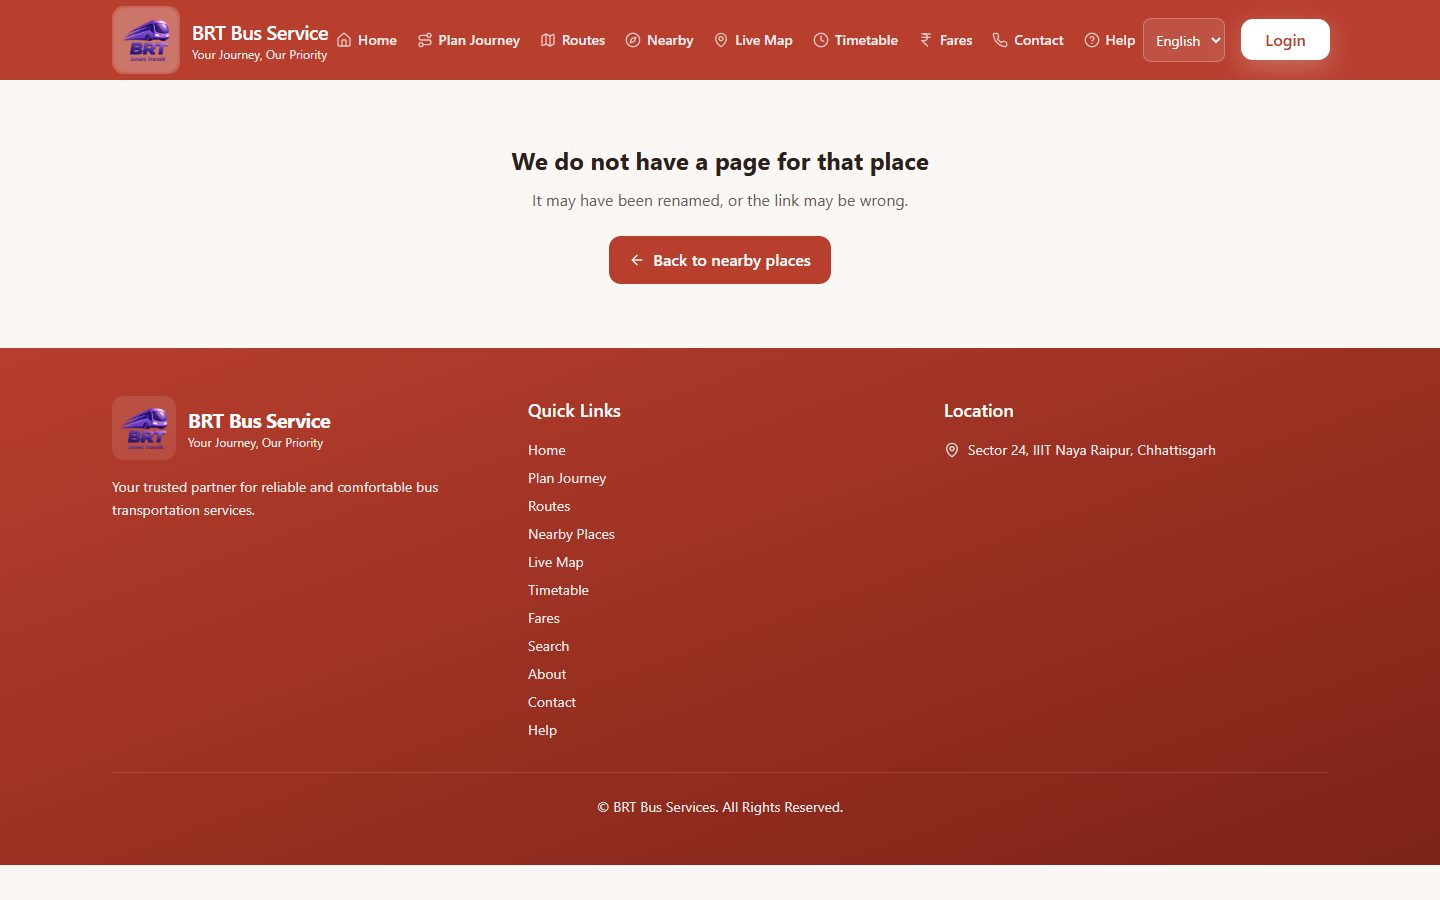
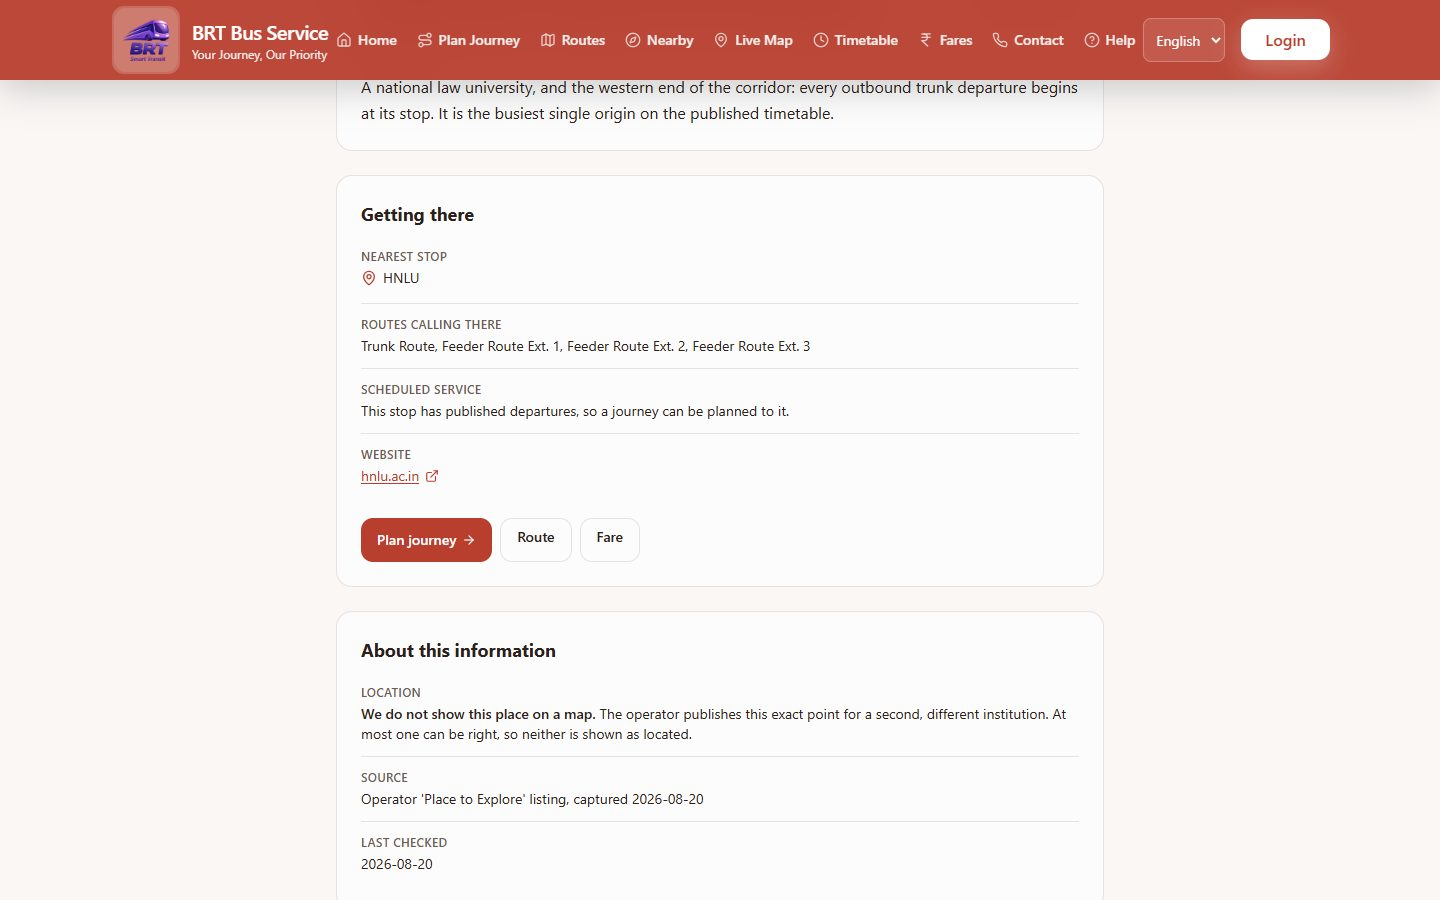
docs(readme): show a real place, not a 404
The place-detail screenshot was a not-found page. The URL I captured from was a
guess at the place id, and the README presented the result as "a detail page
that carries its own provenance" — a caption describing something the image did
not show. Caught by looking at the image rather than trusting the filename.

Recaptured on a place that exists, and on the most interesting one: the
operator publishes the same coordinate for this university and for a second,
different institution, so the page says neither is shown as located. That is a
better illustration than any working example — a conflicting coordinate
labelled rather than quietly corrected, with its source and the date it was
last checked beside it.

The caption now quotes what is actually on screen.

diff --git a/README.md b/README.md
@@ -80,12 +80,20 @@ Distances and directions on it mean nothing, and it says so.
 
 ### Nearby places
 
-Destinations across Nava Raipur with the nearest stop for each, and a detail page that carries
-its own provenance — including where a coordinate is disputed or unverified.
+Destinations across Nava Raipur with the nearest stop for each.
 
-| | |
-|---|---|
-| ![Nearby places](docs/screenshots/desktop/nearby-places.png) | ![Place detail](docs/screenshots/desktop/place-detail.jpg) |
+![Nearby places](docs/screenshots/desktop/nearby-places.png)
+
+Each place carries its own provenance, and the interesting case is a bad one. The operator
+publishes the same coordinate for this university and for a second, different institution:
+
+![Place detail with a disputed coordinate](docs/screenshots/desktop/place-detail.jpg)
+
+> *"We do not show this place on a map. The operator publishes this exact point for a second,
+> different institution. At most one can be right, so neither is shown as located."*
+
+A conflicting coordinate is **labelled rather than quietly corrected**, alongside the source it
+came from and the date it was last checked.
 
 ### Search
 
